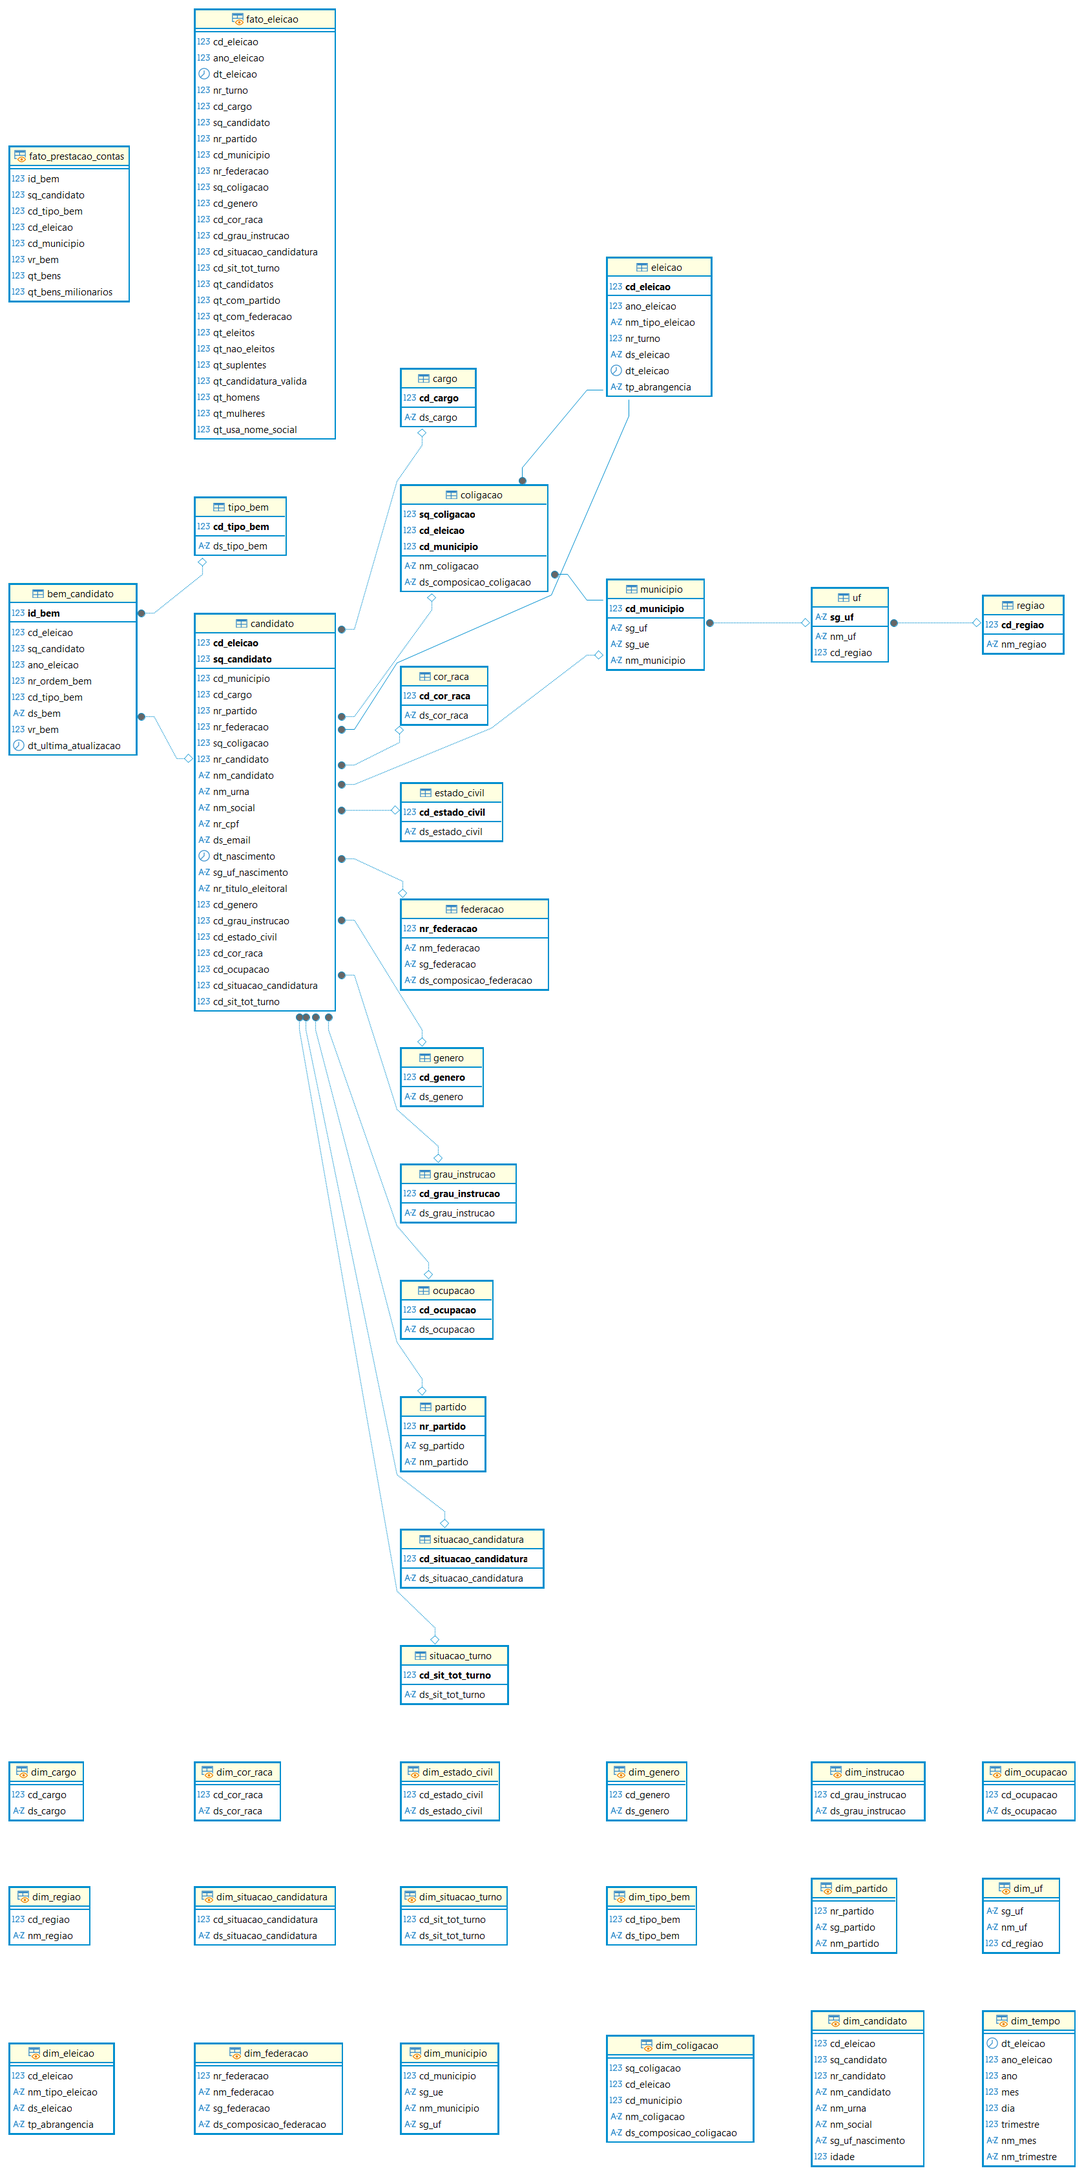
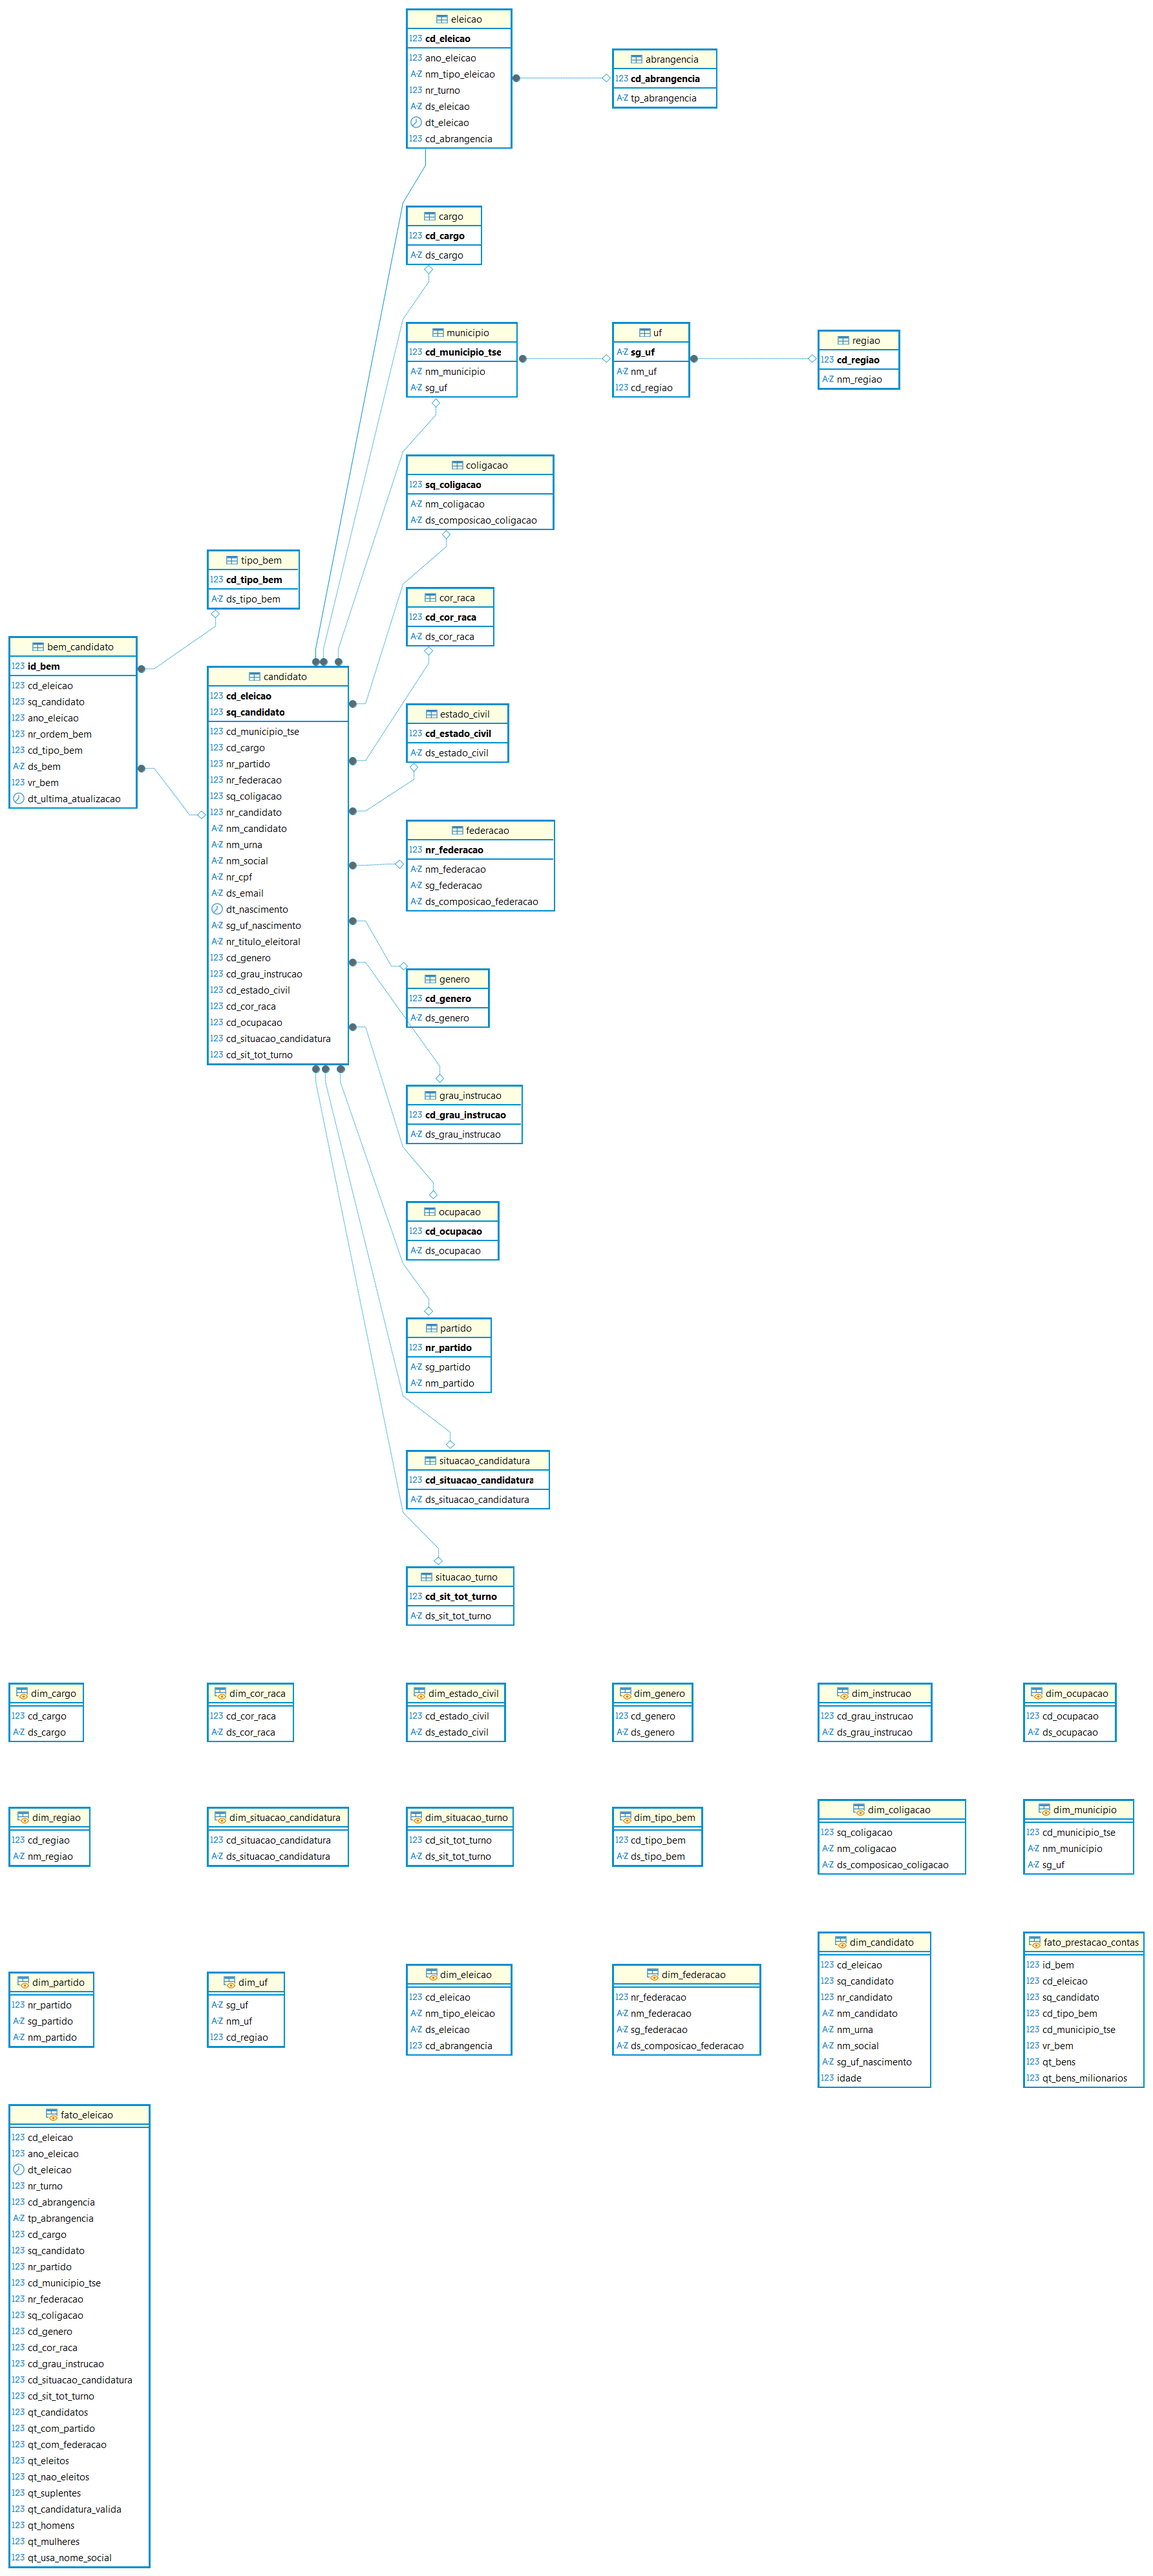
alteracao inserindo abrangencia

diff --git a/src/etl_tse_completo.py b/src/etl_tse_completo.py
@@ -26,11 +26,12 @@ LOG_FILE = BASE_DIR / "log_erros_importacao.txt"
 mapa_eleicao = {
     "CD_ELEICAO": "cd_eleicao", "ANO_ELEICAO": "ano_eleicao", 
     "NM_TIPO_ELEICAO": "nm_tipo_eleicao", "NR_TURNO": "nr_turno", 
-    "DS_ELEICAO": "ds_eleicao", "DT_ELEICAO": "dt_eleicao", "TP_ABRANGENCIA": "tp_abrangencia"
+    "DS_ELEICAO": "ds_eleicao", "DT_ELEICAO": "dt_eleicao", "cd_abrangencia": "cd_abrangencia"
 }
 
 config_dimensoes = [
-    ("municipio", ["CD_MUNICIPIO", "NM_MUNICIPIO", "SG_UF"], {"CD_MUNICIPIO": "cd_municipio", "NM_MUNICIPIO": "nm_municipio", "SG_UF": "sg_uf"}, "cd_municipio"),
+    ("abrangencia", ["TP_ABRANGENCIA"], { "TP_ABRANGENCIA": "tp_abrangencia" }, "tp_abrangencia"),
+    ("municipio", ["SG_UE", "NM_UE", "SG_UF"], {"SG_UE": "cd_municipio_tse", "NM_UE": "nm_municipio","SG_UF": "sg_uf"}, "cd_municipio_tse"),
     ("cargo", ["CD_CARGO", "DS_CARGO"], {"CD_CARGO": "cd_cargo", "DS_CARGO": "ds_cargo"}, "cd_cargo"),
     ("partido", ["NR_PARTIDO", "SG_PARTIDO", "NM_PARTIDO"], {"NR_PARTIDO": "nr_partido", "SG_PARTIDO": "sg_partido", "NM_PARTIDO": "nm_partido"}, "nr_partido"),
     ("federacao", ["NR_FEDERACAO", "NM_FEDERACAO", "SG_FEDERACAO", "DS_COMPOSICAO_FEDERACAO"], {"NR_FEDERACAO": "nr_federacao", "NM_FEDERACAO": "nm_federacao", "SG_FEDERACAO": "sg_federacao", "DS_COMPOSICAO_FEDERACAO": "ds_composicao_federacao"}, "nr_federacao"),
@@ -45,7 +46,7 @@ config_dimensoes = [
 ]
 
 mapa_candidato = {
-    "CD_ELEICAO": "cd_eleicao", "SQ_CANDIDATO": "sq_candidato", "CD_MUNICIPIO": "cd_municipio",
+    "CD_ELEICAO": "cd_eleicao", "SQ_CANDIDATO": "sq_candidato", "SG_UE": "cd_municipio_tse",
     "CD_CARGO": "cd_cargo", "NR_PARTIDO": "nr_partido", "NR_CANDIDATO": "nr_candidato",
     "NM_CANDIDATO": "nm_candidato", "NM_URNA_CANDIDATO": "nm_urna", "NR_CPF_CANDIDATO": "nr_cpf",
     "DS_EMAIL": "ds_email", "DT_NASCIMENTO": "dt_nascimento", "CD_GENERO": "cd_genero",
@@ -60,6 +61,10 @@ mapa_bem = {
     "DS_BEM_CANDIDATO": "ds_bem", "VR_BEM_CANDIDATO": "vr_bem", "DT_ULT_ATUAL_BEM_CANDIDATO": "dt_ultima_atualizacao"
 }
 
+mapa_abrangencia = {
+    "TP_ABRANGENCIA": "tp_abrangencia"
+}
+
 # =========================================
 # 3. TRANSFORMADORES E PIPELINE
 # =========================================
@@ -69,7 +74,7 @@ class HigienizadorTSE(BaseEstimator, TransformerMixin):
         X_copy = X.copy()
         cols_texto = X_copy.select_dtypes(include=['object', 'string']).columns
         for col in cols_texto:
-            X_copy[col] = X_copy[col].str.strip().replace(['#NULO', '#NE', '-1', -1], np.nan)
+            X_copy[col] = X_copy[col].str.strip().str.upper().replace(['#NULO', '#NE', '-1', -1], np.nan)
         return X_copy
 
 class ProcessadorTipos(BaseEstimator, TransformerMixin):
@@ -106,6 +111,79 @@ def inserir_dados(df, tabela, engine, nome_arquivo):
     except Exception as e:
         with open(LOG_FILE, "a") as f: f.write(f"[{datetime.now()}] Erro {tabela} em {nome_arquivo}: {str(e)}\n")
 
+def carregar_dados_estaticos(engine):
+    # 1. Definir os DataFrames (como você já fez)
+    df_regioes = pd.DataFrame([
+        {"nm_regiao": "Norte"}, {"nm_regiao": "Nordeste"},
+        {"nm_regiao": "Centro-Oeste"}, {"nm_regiao": "Sudeste"}, {"nm_regiao": "Sul"}
+    ])
+    
+    # 2. Inserir Regiões (usando ON CONFLICT para evitar erros em re-execução)
+    with engine.begin() as conn:
+        for _, row in df_regioes.iterrows():
+            conn.execute(text("""
+                INSERT INTO regiao (nm_regiao) VALUES (:nm_regiao)
+                ON CONFLICT (nm_regiao) DO NOTHING
+            """), row.to_dict())
+
+    # 3. Recuperar IDs gerados pelo banco para fazer o MERGE
+    df_db_regiao = pd.read_sql("SELECT cd_regiao, nm_regiao FROM regiao", engine)
+
+    # 4. Preparar UFs e fazer o MERGE
+    ufs_raw = pd.DataFrame([
+        {"sg_uf": "AC", "nm_uf": "Acre", "nm_regiao": "Norte"},
+        {"sg_uf": "AL", "nm_uf": "Alagoas", "nm_regiao": "Nordeste"},
+        {"sg_uf": "AP", "nm_uf": "Amapá", "nm_regiao": "Norte"},
+        {"sg_uf": "AM", "nm_uf": "Amazonas", "nm_regiao": "Norte"},
+        {"sg_uf": "BA", "nm_uf": "Bahia", "nm_regiao": "Nordeste"},
+        {"sg_uf": "CE", "nm_uf": "Ceará", "nm_regiao": "Nordeste"},
+        {"sg_uf": "DF", "nm_uf": "Distrito Federal", "nm_regiao": "Centro-Oeste"},
+        {"sg_uf": "ES", "nm_uf": "Espírito Santo", "nm_regiao": "Sudeste"},
+        {"sg_uf": "GO", "nm_uf": "Goiás", "nm_regiao": "Centro-Oeste"},
+        {"sg_uf": "MA", "nm_uf": "Maranhão", "nm_regiao": "Nordeste"},
+        {"sg_uf": "MT", "nm_uf": "Mato Grosso", "nm_regiao": "Centro-Oeste"},
+        {"sg_uf": "MS", "nm_uf": "Mato Grosso do Sul", "nm_regiao": "Centro-Oeste"},
+        {"sg_uf": "MG", "nm_uf": "Minas Gerais", "nm_regiao": "Sudeste"},
+        {"sg_uf": "PA", "nm_uf": "Pará", "nm_regiao": "Norte"},
+        {"sg_uf": "PB", "nm_uf": "Paraíba", "nm_regiao": "Nordeste"},
+        {"sg_uf": "PR", "nm_uf": "Paraná", "nm_regiao": "Sul"},
+        {"sg_uf": "PE", "nm_uf": "Pernambuco", "nm_regiao": "Nordeste"},
+        {"sg_uf": "PI", "nm_uf": "Piauí", "nm_regiao": "Nordeste"},
+        {"sg_uf": "RJ", "nm_uf": "Rio de Janeiro", "nm_regiao": "Sudeste"},
+        {"sg_uf": "RN", "nm_uf": "Rio Grande do Norte", "nm_regiao": "Nordeste"},
+        {"sg_uf": "RS", "nm_uf": "Rio Grande do Sul", "nm_regiao": "Sul"},
+        {"sg_uf": "RO", "nm_uf": "Rondônia", "nm_regiao": "Norte"},
+        {"sg_uf": "RR", "nm_uf": "Roraima", "nm_regiao": "Norte"},
+        {"sg_uf": "SC", "nm_uf": "Santa Catarina", "nm_regiao": "Sul"},
+        {"sg_uf": "SP", "nm_uf": "São Paulo", "nm_regiao": "Sudeste"},
+        {"sg_uf": "SE", "nm_uf": "Sergipe", "nm_regiao": "Nordeste"},
+        {"sg_uf": "TO", "nm_uf": "Tocantins", "nm_regiao": "Norte"},
+    ])    
+
+    # O MERGE: associa o cd_regiao (do banco) à UF pelo nome da região
+    ufs_final = ufs_raw.merge(df_db_regiao, on="nm_regiao", how="inner")
+    
+    # Selecionar apenas as colunas que existem no DDL da tabela UF [2]
+    ufs_final = ufs_final[["sg_uf", "nm_uf", "cd_regiao"]]
+
+    # 5. Inserir UFs
+    with engine.begin() as conn:
+        for _, row in ufs_final.iterrows():
+            conn.execute(text("""
+                INSERT INTO uf (sg_uf, nm_uf, cd_regiao) 
+                VALUES (:sg_uf, :nm_uf, :cd_regiao)
+                ON CONFLICT (sg_uf) DO NOTHING
+            """), row.to_dict())
+    print("✅ Regiões e UFs carregadas com sucesso.")    
+
+def obter_mapa_abrangencia(engine):
+    """Busca o mapeamento de IDs da tabela abrangencia no banco."""
+    try:
+        df_ab = pd.read_sql("SELECT cd_abrangencia, tp_abrangencia FROM abrangencia", engine)
+        return dict(zip(df_ab['tp_abrangencia'], df_ab['cd_abrangencia']))
+    except Exception:
+        return {}      
+
 # =========================================
 # 5. PROCESSAMENTO COM SELEÇÃO DINÂMICA
 # =========================================
@@ -113,48 +191,128 @@ def processar_arquivo(caminho_csv, tipo="candidato"):
     inicio_arquivo = time.time()
     print(f"\nIniciando: {caminho_csv.name} às {datetime.now().strftime('%H:%M:%S')}")
     
+    # 1. Leitura do arquivo bruto [3]
     df_bruto = pd.read_csv(caminho_csv, sep=';', encoding='latin1')
     
-    # PASSO A: Eleição (Dinâmico para evitar KeyError em Bens)
-    cols_e = [c for c in mapa_eleicao.keys() if c in df_bruto.columns]
-    df_e = df_bruto[cols_e].drop_duplicates().rename(columns=mapa_eleicao)
-    if 'dt_eleicao' in df_e.columns:
-        df_e['dt_eleicao'] = pd.to_datetime(df_e['dt_eleicao'], format="%d/%m/%Y", errors="coerce")
+    # --- AJUSTE DE COMPATIBILIDADE 2022 (A base do problema) ---
+    # Se o arquivo não tiver TP_ABRANGENCIA, criamos com base na SG_UE [2]
+    if 'TP_ABRANGENCIA' not in df_bruto.columns:
+        # Se SG_UE for 'BR' é Federal, senão é Estadual (para 2022)
+        df_bruto['TP_ABRANGENCIA'] = df_bruto['SG_UE'].apply(
+            lambda x: 'FEDERAL' if str(x).upper() == 'BR' else 'ESTADUAL'
+        )
     
-    with engine.begin() as conn:
-        for _, r in df_e.iterrows():
-            params = r.to_dict()
-            for k in mapa_eleicao.values():
-                if k not in params: params[k] = None
-            conn.execute(text("""INSERT INTO eleicao (cd_eleicao, ano_eleicao, nm_tipo_eleicao, nr_turno, ds_eleicao, dt_eleicao, tp_abrangencia) 
-                VALUES (:cd_eleicao, :ano_eleicao, :nm_tipo_eleicao, :nr_turno, :ds_eleicao, :dt_eleicao, :tp_abrangencia) 
-                ON CONFLICT (cd_eleicao) DO NOTHING"""), params)
+    # Garante que campos de Bens de 2024 existam para evitar erro no Pipeline/Mapeamento [4, 5]
+    for col in ['VR_BEM_CANDIDATO', 'DT_ULT_ATUAL_BEM_CANDIDATO']:
+        if col not in df_bruto.columns:
+            df_bruto[col] = np.nan
 
-    # PASSO B: Dimensões (Cargos, Partidos, etc.) [4]
+    # PASSO A: Dimensões (Cargos, Partidos, etc.) [6]
     for tabela, cols, mapa, pk in config_dimensoes:
         if set(cols).issubset(df_bruto.columns):
             df_dim = df_bruto[cols].drop_duplicates().rename(columns=mapa)
+
+            # Lógica específica para municípios (somente em eleições municipais) [6]
+            if tabela == "municipio":
+                df_dim = df_bruto[df_bruto["TP_ABRANGENCIA"] == "MUNICIPAL"][cols].drop_duplicates().rename(columns=mapa)
+                df_dim = df_dim[df_dim["cd_municipio_tse"].notna()]
+
             df_dim = filtrar_registros_existentes(df_dim, tabela, engine, pk)
             inserir_dados(df_dim, tabela, engine, caminho_csv.name)
 
-    # PASSO C: Tabela Fato (Candidatos ou Bens) [5], [6]
+    # --- PASSO B: Eleição (Mapeando o ID da Abrangência) [1, 2] ---
+    # Busca o "tradutor" de IDs da tabela abrangencia
+    '''
+    if 'TP_ABRANGENCIA' not in df_bruto.columns:
+        # Aqui você REALMENTE CRIA os dados que o .map() vai usar depois
+        df_bruto['TP_ABRANGENCIA'] = df_bruto['SG_UE'].apply(
+            lambda x: 'FEDERAL' if str(x).upper() == 'BR' else 'ESTADUAL'
+        )   
+    mapa_ids_ab = obter_mapa_abrangencia(engine)
+    
+    
+    # IMPORTANTE: Incluímos explicitamente 'TP_ABRANGENCIA' na seleção de colunas
+    cols_e = [c for c in mapa_eleicao.keys() if c in df_bruto.columns or c == 'TP_ABRANGENCIA']
+    df_e = df_bruto[cols_e].drop_duplicates().copy()
+    
+    # Agora o .map() encontrará a coluna TP_ABRANGENCIA e converterá para o ID [1]
+    df_e['cd_abrangencia'] = df_e['TP_ABRANGENCIA'].map(mapa_ids_ab)
+    '''
+
+ # --- PASSO B: Processamento da Eleição (Sincronizado com novo DDL) ---
+
+    # 1. COMPATIBILIDADE 2022: Criar a coluna de texto se ela não existir no CSV
+    # Isso deve ser feito ANTES de selecionar as colunas para o df_e
+    if 'TP_ABRANGENCIA' not in df_bruto.columns:
+        df_bruto['TP_ABRANGENCIA'] = df_bruto['SG_UE'].apply(
+            lambda x: 'FEDERAL' if str(x).upper() == 'BR' else 'ESTADUAL'
+        )
+
+    # 2. BUSCA DE IDs: Obtém o dicionário {'FEDERAL': 1, 'ESTADUAL': 2, ...}
+    mapa_ids_ab = obter_mapa_abrangencia(engine)
+
+    # 3. SELEÇÃO DE COLUNAS: 
+    # Precisamos garantir que 'TP_ABRANGENCIA' esteja no df_e para podermos mapear seu valor
+    cols_e = [c for c in mapa_eleicao.keys() if c in df_bruto.columns]
+    if 'TP_ABRANGENCIA' not in cols_e:
+        cols_e.append('TP_ABRANGENCIA')
+    
+    df_e = df_bruto[cols_e].drop_duplicates().copy()
+
+    # 4. MAPEAMENTO: Converte o texto em ID numérico conforme seu DDL
+    # Note que agora usamos a coluna que acabamos de garantir que existe no df_e
+    df_e['cd_abrangencia'] = df_e['TP_ABRANGENCIA'].map(mapa_ids_ab)
+
+    # 5. AJUSTE PARA O BANCO:
+    # Renomeamos as colunas conforme o seu mapa_eleicao
+    df_e = df_e.rename(columns=mapa_eleicao)
+    
+    # 6. LIMPEZA FINAL: 
+    # Removemos a coluna de texto 'TP_ABRANGENCIA' (ou 'tp_abrangencia') 
+    # porque sua tabela 'eleicao' agora só aceita o ID numérico
+    colunas_para_remover = [c for c in ['TP_ABRANGENCIA', 'tp_abrangencia'] if c in df_e.columns]
+    df_e = df_e.drop(columns=colunas_para_remover)
+
+   
+    # Renomeia para os nomes das colunas do banco (cd_eleicao, dt_eleicao, etc) [2]
+    #df_e = df_e.rename(columns=mapa_eleicao)
+    
+    if 'dt_eleicao' in df_e.columns:
+        df_e['dt_eleicao'] = pd.to_datetime(df_e['dt_eleicao'], format="%d/%m/%Y", errors="coerce")
+    
+    # Se o seu DDL agora espera cd_abrangencia (ID), removemos a coluna de texto original
+    # Isso evita erro de "coluna tp_abrangencia não encontrada" no INSERT [1]
+    #if 'tp_abrangencia' in df_e.columns:
+    #    df_e = df_e.drop(columns=['tp_abrangencia'])
+
+    # Filtra e insere a Eleição
+    df_e = filtrar_registros_existentes(df_e, "eleicao", engine, "cd_eleicao")
+    inserir_dados(df_e, "eleicao", engine, caminho_csv.name)
+
+    # PASSO C: Tabela Fato (Candidatos ou Bens) [4, 5, 7, 8]
     df_f = pipe_tse.fit_transform(df_bruto)
     mapa_alvo = mapa_candidato if tipo == "candidato" else mapa_bem
-    pks_alvo = ["cd_eleicao", "sq_candidato"] if tipo == "candidato" else None
+    tabela_destino = "candidato" if tipo == "candidato" else "bem_candidato"
+    pks_alvo = ["cd_eleicao", "sq_candidato"] if tipo == "candidato" else "id_bem"
     
     cols_f = [c for c in mapa_alvo.keys() if c in df_f.columns]
     df_final = df_f[cols_f].rename(columns=mapa_alvo)
     
     if tipo == "candidato":
-        if 'cd_municipio' not in df_final.columns: df_final['cd_municipio'] = None
+        # Limpa município se não for eleição municipal [7]
+        df_final.loc[df_bruto["TP_ABRANGENCIA"] != "MUNICIPAL", "cd_municipio_tse"] = None
         df_final = filtrar_registros_existentes(df_final, "candidato", engine, pks_alvo)
     
-    inserir_dados(df_final, "candidato" if tipo == "candidato" else "bem_candidato", engine, caminho_csv.name)
-    print(f"Finalizado: {caminho_csv.name} | Duração: {time.time() - inicio_arquivo:.2f}s")
+    inserir_dados(df_final, tabela_destino, engine, caminho_csv.name)
+    print(f"Finalizado: {caminho_csv.name}")
+    print(f"Duração: {int((time.time()-inicio_arquivo)//3600):02d}:{int(((time.time()-inicio_arquivo)%3600)//60):02d}:{(time.time()-inicio_arquivo)%60:05.2f}")
 
 def executar_etl():
     inicio_total = time.time()
     print(f"INÍCIO DO PROCESSO ETL: {datetime.now().strftime('%d/%m/%Y %H:%M:%S')}")
+
+    # CARGA ESTÁTICA AQUI (Nova chamada)
+    carregar_dados_estaticos(engine)
     
     # Localização de pastas conforme chat
     pastas_cand = [p for p in RAW_DIR.iterdir() if p.is_dir() and p.name.startswith("consulta_cand_")]
